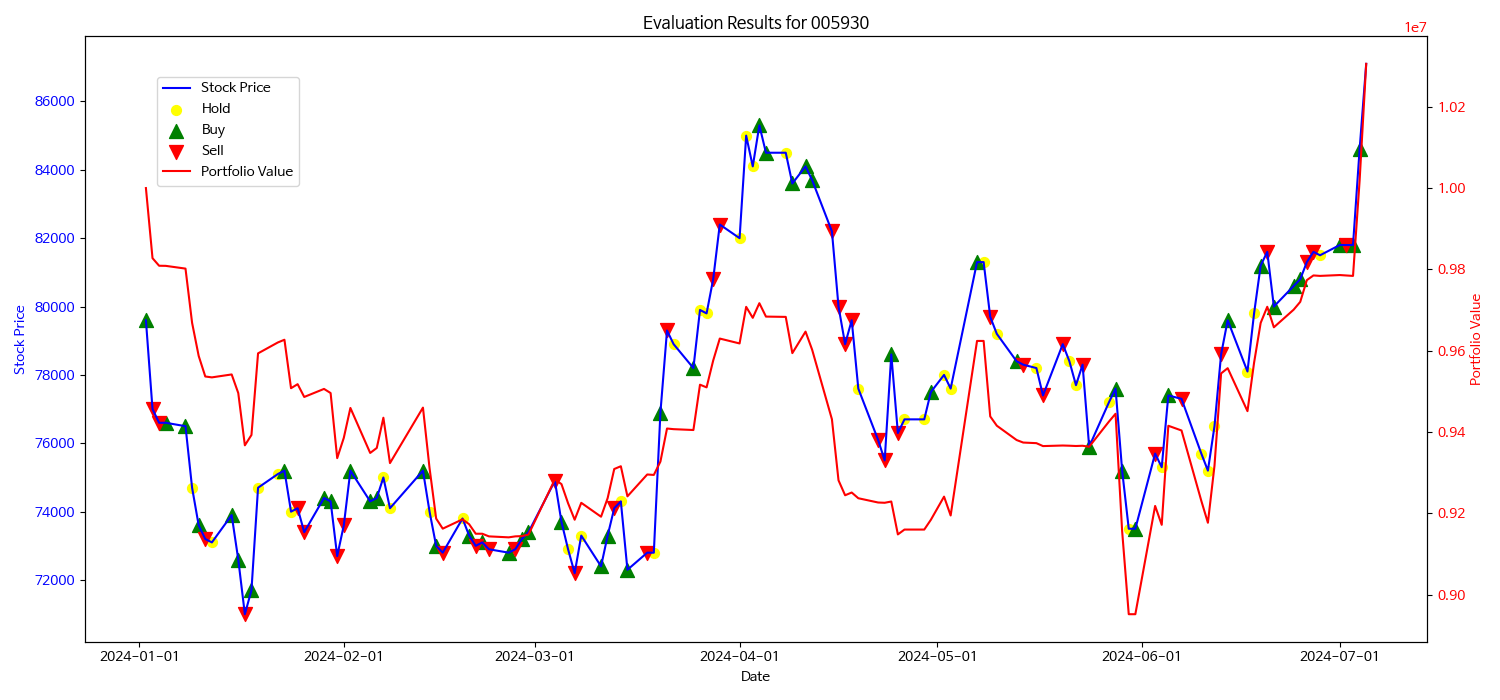
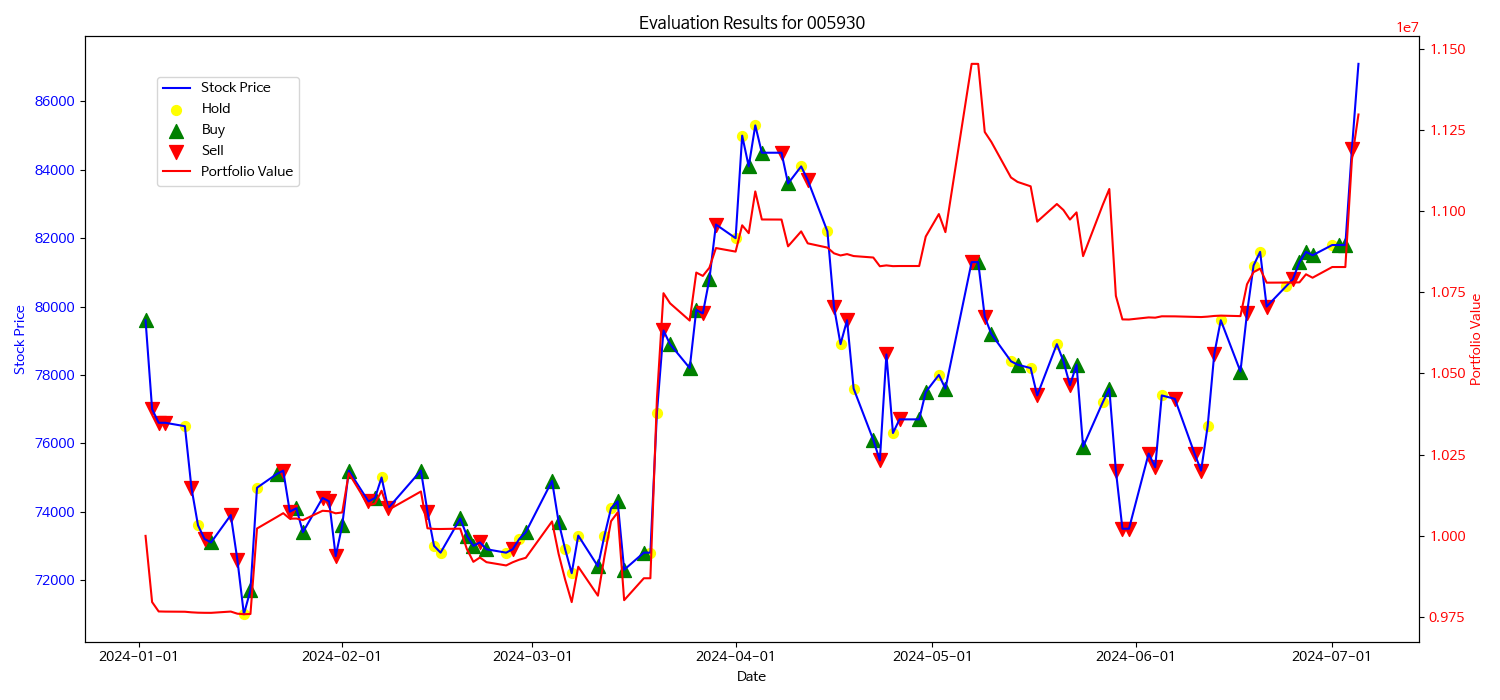
song

diff --git a/source/2024_workshop/stockevaluator.py b/source/2024_workshop/stockevaluator.py
@@ -31,7 +31,7 @@ class StockEvaluator:
         df.reset_index(inplace=True)
         df.rename(columns={'날짜': 'Date', '종가': 'Close', '시가': 'Open', '고가': 'High', '저가': 'Low', '거래량': 'Volume'}, inplace=True)
         return df
-
+    
     def load_model(self):
         agent_config = get_agent_config(self.agent_type)
         if self.agent_type == 'dqn':
@@ -43,16 +43,44 @@ class StockEvaluator:
         else:
             raise ValueError(f"Unsupported agent type: {self.agent_type}")
 
+        # 소스 코드가 있는 폴더의 경로를 직접 지정
         current_dir = os.path.dirname(os.path.abspath(__file__))
         models_dir = os.path.join(current_dir, 'models')
         ticker_clean = ''.join(e for e in self.ticker if e.isalnum())
         model_path = os.path.join(models_dir, f'{ticker_clean}_{self.agent_type}.pth')
+
+        print(f"Current directory: {current_dir}")
+        print(f"Models directory: {models_dir}")
+        print(f"Attempting to load model from: {model_path}")
         
         if os.path.exists(model_path):
             self.agent.load(model_path)
             print(f"Model loaded from {model_path}")
         else:
-            raise FileNotFoundError(f"Model file not found: {model_path}")
+            print(f"Files in models directory: {os.listdir(models_dir)}")
+            raise FileNotFoundError(f"Model file not found: {model_path}")    
+
+    # def load_model(self):
+    #     agent_config = get_agent_config(self.agent_type)
+    #     if self.agent_type == 'dqn':
+    #         self.agent = DQNAgent(**agent_config)
+    #     elif self.agent_type == 'ppo':
+    #         self.agent = PPOAgent(**agent_config)
+    #     elif self.agent_type == 'a2c':
+    #         self.agent = A2CAgent(**agent_config)
+    #     else:
+    #         raise ValueError(f"Unsupported agent type: {self.agent_type}")
+
+    #     current_dir = os.path.dirname(os.path.abspath(__file__))
+    #     models_dir = os.path.join(current_dir, 'models')
+    #     ticker_clean = ''.join(e for e in self.ticker if e.isalnum())
+    #     model_path = os.path.join(models_dir, f'{ticker_clean}_{self.agent_type}.pth')
+        
+    #     if os.path.exists(model_path):
+    #         self.agent.load(model_path)
+    #         print(f"Model loaded from {model_path}")
+    #     else:
+    #         raise FileNotFoundError(f"Model file not found: {model_path}")
 
     def evaluate(self):
         self.test_data = self.get_stock_data()

diff --git a/source/2024_workshop/config.py b/source/2024_workshop/config.py
@@ -9,7 +9,7 @@ config = {
     'commission_rate': 0.00015,  # 거래 수수료 0.015%
 
     # 학습 관련 설정
-    'epochs': 2,
+    'epochs': 1000,
     'batch_size': 32,
 
     # 에이전트 관련 설정
